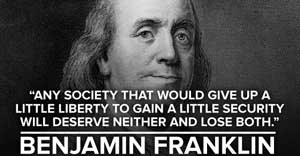
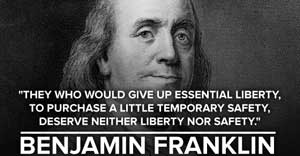
updated Facebook graphic, removed unused js, rejigged Facebook graphic images, fixed twitter share

Changed region(s): [[0.03, 0.5641, 0.96, 0.8205]]

diff --git a/index.html b/index.html
@@ -158,93 +158,92 @@
 
                 <div class="step row">
                     <h4>1: SIGN UP TO ADD A BANNER TO YOUR SITE</h4>
+
                     <div class="col-sm-10 centered">
-                    <img src="/img/banner_preview.png" style="margin-bottom:20px" />
-                    <p>We’re creating embeddable banners and widgets that you’ll be able to add to your site to encourage  visitors to participate in the day of action. The photo above is just a draft - the final design is yet to come.</p>
-                    <p>Sign up here if you have a site that can participate and we’ll let you know how to implement a widget when they’re ready. And if you work at a tech company or startup, lobby the management and ask them to join too.</p>
+                        <img src="/img/banner_preview.png" style="margin-bottom:20px" />
+                        <p>We’re creating embeddable banners and widgets that you’ll be able to add to your site to encourage  visitors to participate in the day of action. The photo above is just a draft - the final design is yet to come.</p>
+                        <p>Sign up here if you have a site that can participate and we’ll let you know how to implement a widget when they’re ready. And if you work at a tech company or startup, lobby the management and ask them to join too.</p>
 
-                    <div id="greybox">
-                      <h5>Sign up and get notified when they're ready:</h5>
+                        <div id="greybox">
+                          <h5>Sign up and get notified when they're ready:</h5>
 
-                      <div class="form-inline banner-signup-form">
-                        <form id="email-banner-form" action="">
-                          <input type="hidden" name="banner" value="1">
-                          <div class="form-group">
-                            <label class="sr-only" for="id_email" >Email address</label>
-                            <input type="email" class="form-control banner-signup input-lg" name="email"  id="id_email" placeholder="Your email" pattern="^[A-Za-z0-9._%+-]+@[A-Za-z0-9.-]+\.[a-z]{2,4}$" required="required" />
+                          <div class="form-inline banner-signup-form">
+                            <form id="email-banner-form" action="">
+                              <input type="hidden" name="banner" value="1">
+                              <div class="form-group">
+                                <label class="sr-only" for="id_email" >Email address</label>
+                                <input type="email" class="form-control banner-signup input-lg" name="email"  id="id_email" placeholder="Your email" pattern="^[A-Za-z0-9._%+-]+@[A-Za-z0-9.-]+\.[a-z]{2,4}$" required="required" />
+                              </div>
+                              <div class="form-group">
+                                <label class="sr-only" for="banner-domain">Password</label>
+                                <input type="text" class="form-control domain-input input-lg" id="banner-domain" placeholder="Your domain(s)" name="domain" required="required" />
+                              </div>
+                              <input class="btn btn-default btn-lg" type="submit" value="Submit" />
+                            </form>
                           </div>
-                          <div class="form-group">
-                            <label class="sr-only" for="banner-domain">Password</label>
-                            <input type="text" class="form-control domain-input input-lg" id="banner-domain" placeholder="Your domain(s)" name="domain" required="required" />
-                          </div>
-                          <input class="btn btn-default btn-lg" type="submit" value="Submit" />
-                        </form>
                       </div>
-                  </div>
-
                     </div>
                 </div>
+
                 <div class="step row">
                     <h4>2: TELL THE WORLD YOU'RE TAKING PART</h4>
                     <div class="col-sm-10 centered">
-                    <div id="socbar" class="down sharecenter row">
-                      <div class="col-xs-4 social-link-container">
-                        <a href="https://twitter.com/home?status=Some%20of%20the%20biggest%20websites%20are%20planning%20a%20massive%20protest%20to%20%23StopTheNSA%20on%20Feb%2011th.%20I%E2%80%99m%20joining%20them%20%E2%80%94%20will%20you%3F%20https%3A%2F%2Fthedaywefightback.org&related=thedaywefightback,sinak,neutralthoughts,stopwatchingus,eff" count="0" data-network="twitter" target="_blank" id="tweet-box" class="twitter-button social-count" onclick="openTwitter(); return false;">
-                            <div class="sicon" id="stwit"></div>
-                        </a>
-                      </div>
-                      <div class="col-xs-4 social-link-container">
-                        <a href="https://www.facebook.com/share.php?u=https://thedaywefightback.org" data-network="facebook" id="facebook" count="0" target="_blank" class="social-count facebook-button" onclick="openFacebook(); return false;">
-                            <div class="sicon" id="sfb"></div>
-                        </a>
-                      </div>
-                      <div class="col-xs-4 social-link-container">
-                        <a count="0" href="https://plus.google.com/share?url=https://thedaywefightback.org" data-network="googleplus" id="gplus" target="_blank" class="social-count google-button" onclick="openGplus(); return false;">
-                            <div class="sicon" id="sgplus"></div>
-                        </a>
-                      </div>
-                      <!--<div class="col-xs-3 social-link-container">
-                        <a style="margin-right: 0;" href="https://www.thunderclap.it/projects/3417-8-4-is-1984day-stopthensa" target="_blank">
-                            <img style="margin-top: 2px" src="img/thunderclap.jpg">
-                        </a>
-                      </div>-->
-                    </div>
-                    <div style="clear: both;"></div>
+                        <div id="socbar" class="down sharecenter row">
+                          <div class="col-xs-4 social-link-container">
+                            <a href="https://twitter.com/home?status=Some%20of%20the%20biggest%20websites%20are%20planning%20a%20massive%20protest%20to%20%23StopTheNSA%20on%20Feb%2011th.%20I%E2%80%99m%20joining%20them%20%E2%80%94%20will%20you%3F%20https%3A%2F%2Fthedaywefightback.org&related=thedaywefightback%2Csinak%2Cneutralthoughts%2Cstopwatchingus%2Ceff" count="0" data-network="twitter" target="_blank" id="tweet-box" class="twitter-button social-count" onclick="openTwitter(); return false;">
+                                <div class="sicon" id="stwit"></div>
+                            </a>
+                          </div>
+                          <div class="col-xs-4 social-link-container">
+                            <a href="https://www.facebook.com/share.php?u=https://thedaywefightback.org" data-network="facebook" id="facebook" count="0" target="_blank" class="social-count facebook-button" onclick="openFacebook(); return false;">
+                                <div class="sicon" id="sfb"></div>
+                            </a>
+                          </div>
+                          <div class="col-xs-4 social-link-container">
+                            <a count="0" href="https://plus.google.com/share?url=https://thedaywefightback.org" data-network="googleplus" id="gplus" target="_blank" class="social-count google-button" onclick="openGplus(); return false;">
+                                <div class="sicon" id="sgplus"></div>
+                            </a>
+                          </div>
+                          <!--<div class="col-xs-3 social-link-container">
+                            <a style="margin-right: 0;" href="https://www.thunderclap.it/projects/3417-8-4-is-1984day-stopthensa" target="_blank">
+                                <img style="margin-top: 2px" src="img/thunderclap.jpg">
+                            </a>
+                          </div>-->
+                        </div>
+                        <div style="clear: both;"></div>
 
-                    <p class="text-center morefb" >
-                      <strong>Show your support by <a href="http://twibbon.com/Support/the-day-we-fight-back-2"  target="_blank">changing your profile photo</strong></a>:
-                    </p>
-                    <p class="text-center" >
-                      <a href="http://twibbon.com/Support/the-day-we-fight-back-2" target="_blank"><img src="/img/twibbon.jpg" id="twibbon"></a>
-                    </p>
+                        <p class="text-center morefb" >
+                          <strong>Show your support by <a href="http://twibbon.com/Support/the-day-we-fight-back-2"  target="_blank">changing your profile photo</strong></a>:
+                        </p>
+                        <p class="text-center" >
+                          <a href="http://twibbon.com/Support/the-day-we-fight-back-2" target="_blank"><img src="/img/twibbon.jpg" id="twibbon"></a>
+                        </p>
 
-                    <div id="fb-share-graphics">
-                      <p class="text-center morefb">
-                        <strong>Click to share one of these photos on Facebook:</a></strong>
-                      </p>
-                      <div class="col-sm-6">
-                        <a onclick='window.open("https://www.facebook.com/sharer.php?s=2&appid=2305272732&p%5B0%5D=650914438280933&p%5B1%5D=1073741831&share_source_type=unknown", "Share on Facebook", "width=500,height=500");return false;' href="https://www.facebook.com/sharer.php?s=2&appid=2305272732&p%5B0%5D=650914438280933&p%5B1%5D=1073741831&share_source_type=unknown" target="_blank">
-                          <img class="img-responsive" src="/img/fb1s.jpg" alt="Lebowski is against surveillance too" />
-                        </a>
-                      </div>
-                      <div class="col-sm-6">
-                        <a onclick='window.open("https://www.facebook.com/sharer.php?s=2&appid=2305272732&p%5B0%5D=650914438280933&p%5B1%5D=1073741830&share_source_type=unknown", "Share on Facebook", "width=500,height=500");return false;'  href="https://www.facebook.com/sharer.php?s=2&appid=2305272732&p%5B0%5D=650914438280933&p%5B1%5D=1073741830&share_source_type=unknown" target="_blank">
-                          <img class="img-responsive" src="/img/fb2s.jpg" alt="This person is in for The Day We Fight Back" />
-                        </a>
-                      </div>
-                      <div class="col-sm-6">
-                        <a onclick='window.open("https://www.facebook.com/sharer.php?s=2&appid=2305272732&p%5B0%5D=650914438280933&p%5B1%5D=1073741828&share_source_type=unknown", "Share on Facebook", "width=500,height=500");return false;'  href="https://www.facebook.com/sharer.php?s=2&appid=2305272732&p%5B0%5D=650914438280933&p%5B1%5D=1073741828&share_source_type=unknown" target="_blank">
-                          <img class="img-responsive" src="/img/fb3s.jpg" alt="We're protecting you - keep browsing" />
-                        </a>
-                      </div>
-                      <div class="col-sm-6">
-                        <a onclick='window.open("https://www.facebook.com/sharer.php?s=2&appid=2305272732&p%5B0%5D=650914438280933&p%5B1%5D=1073741829&share_source_type=unknown", "Share on Facebook", "width=500,height=500");return false;'  href="https://www.facebook.com/share.php?u=https://www.facebook.com/sharer.php?s=2&appid=2305272732&p%5B0%5D=650914438280933&p%5B1%5D=1073741829&share_source_type=unknown" target="_blank">
-                          <img class="img-responsive" src="/img/fb4s.jpg" alt="Ben Franklin quote about privacy and security" />
-                        </a>
-                      </div>
-                    </div>
-
-
+                        <div id="fb-share-graphics">
+                          <p class="text-center morefb">
+                            <strong>Click to share one of these photos on Facebook:</a></strong>
+                          </p>
+                          <div class="col-sm-6">
+                            <a onclick='window.open("https://www.facebook.com/sharer.php?s=2&appid=2305272732&p%5B0%5D=650914438280933&p%5B1%5D=1073741839&share_source_type=unknown", "Share on Facebook", "width=500,height=500");return false;'  href="https://www.facebook.com/sharer.php?s=2&appid=2305272732&p%5B0%5D=650914438280933&p%5B1%5D=1073741839&share_source_type=unknown" target="_blank">
+                              <img class="img-responsive" src="/img/fb4s.jpg" alt="Ben Franklin quote about privacy and security" />
+                            </a>
+                          </div>
+                          <div class="col-sm-6">
+                            <a onclick='window.open("https://www.facebook.com/sharer.php?s=2&appid=2305272732&p%5B0%5D=650914438280933&p%5B1%5D=1073741831&share_source_type=unknown", "Share on Facebook", "width=500,height=500");return false;' href="https://www.facebook.com/sharer.php?s=2&appid=2305272732&p%5B0%5D=650914438280933&p%5B1%5D=1073741831&share_source_type=unknown" target="_blank">
+                              <img class="img-responsive" src="/img/fb1s.jpg" alt="Lebowski is against surveillance too" />
+                            </a>
+                          </div>
+                          <div class="col-sm-6">
+                            <a onclick='window.open("https://www.facebook.com/sharer.php?s=2&appid=2305272732&p%5B0%5D=650914438280933&p%5B1%5D=1073741830&share_source_type=unknown", "Share on Facebook", "width=500,height=500");return false;'  href="https://www.facebook.com/sharer.php?s=2&appid=2305272732&p%5B0%5D=650914438280933&p%5B1%5D=1073741830&share_source_type=unknown" target="_blank">
+                              <img class="img-responsive" src="/img/fb2s.jpg" alt="This person is in for The Day We Fight Back" />
+                            </a>
+                          </div>
+                          <div class="col-sm-6">
+                            <a onclick='window.open("https://www.facebook.com/sharer.php?s=2&appid=2305272732&p%5B0%5D=650914438280933&p%5B1%5D=1073741828&share_source_type=unknown", "Share on Facebook", "width=500,height=500");return false;'  href="https://www.facebook.com/sharer.php?s=2&appid=2305272732&p%5B0%5D=650914438280933&p%5B1%5D=1073741828&share_source_type=unknown" target="_blank">
+                              <img class="img-responsive" src="/img/fb3s.jpg" alt="We're protecting you - keep browsing" />
+                            </a>
+                          </div>
+                        </div>
                     </div>
 
                 </div>

diff --git a/js/main.js b/js/main.js
@@ -114,14 +114,8 @@ function openFacebook() {
     window.open(e, "Share on Facebook", "width=500,height=500");
     return false
 }
-function shareFacebookImage(id) {
-    var e = "https://www.facebook.com/sharer/sharer.php?u=https://thedaywefightback.org/" + id + "/";
-    window.open(e, "Share on Facebook", "width=500,height=500");
-    return false
-}
-
 function openTwitter(){
-        var t="https://twitter.com/home?status=Some%20of%20the%20biggest%20websites%20are%20planning%20a%20massive%20protest%20to%20%23StopTheNSA%20on%20Feb%2011th.%20I%E2%80%99m%20joining%20them%20%E2%80%94%20will%20you%3F%20https%3A%2F%2Fthedaywefightback.org&related=thedaywefightback,sinak,neutralthoughts,stopwatchingus,eff";
+        var t="https://twitter.com/home?status=Some%20of%20the%20biggest%20websites%20are%20planning%20a%20massive%20protest%20to%20%23StopTheNSA%20on%20Feb%2011th.%20I%E2%80%99m%20joining%20them%20%E2%80%94%20will%20you%3F%20https%3A%2F%2Fthedaywefightback.org&related=thedaywefightback%2Csinak%2Cneutralthoughts%2Cstopwatchingus%2Ceff";
         window.open(t,"Twitter","width=550,height=420");
           return false}
 
